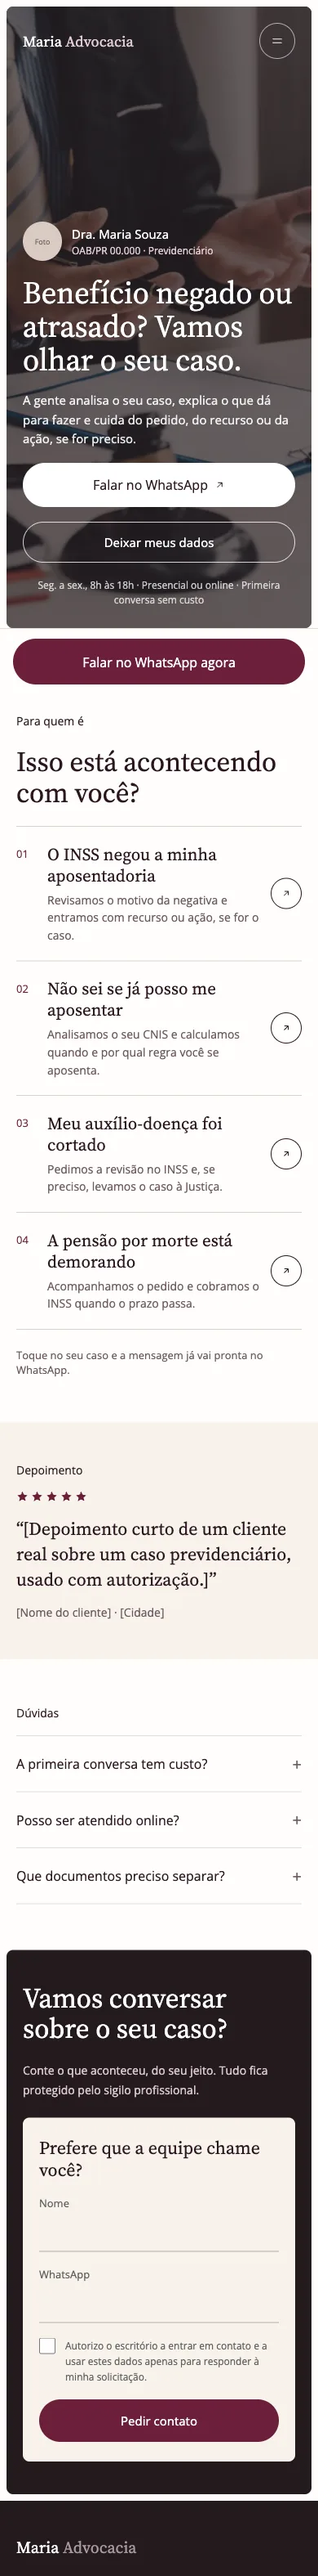
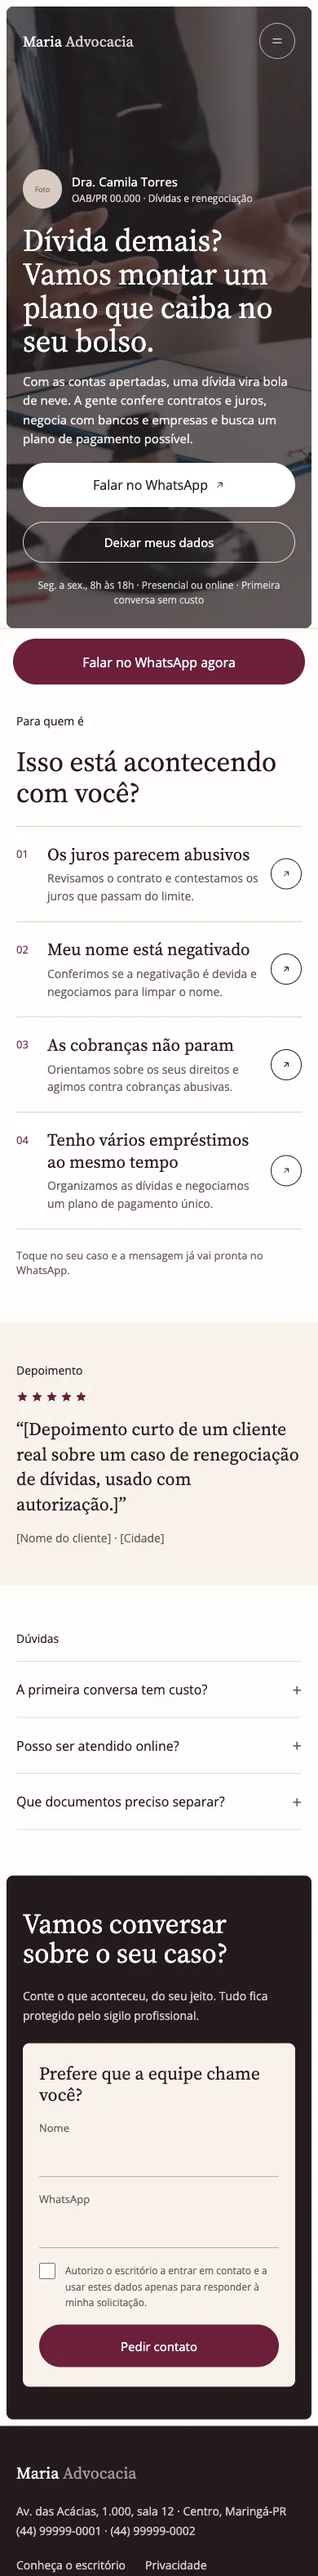
Rodada de conteúdo: novo topo, aviso de dados fictícios, sobre com trajetória, cases em desafio/painel/prática, galeria das 5 landing pages com página inteira ao clicar, LinkedIn no contato; corrige telas de celular trocadas entre as áreas
Claude-Session: https://claude.ai/code/session_01F5wkNeoWnXVfzMkmMXsnwT

diff --git a/index.html b/index.html
@@ -74,66 +74,84 @@ img{-webkit-user-drag:none;user-select:none}
 .project .dashboard-shell{margin-top:auto;overflow:hidden;border-radius:12px}
 .project .dashboard-shell+a{margin-top:0}
 .project .dashboard-shell .dashboard-watermark{font-size:clamp(11px,1.2vw,14px);color:rgba(255,255,255,.7)}
+
+/* Rodada 2: cases em etapas, galeria das landing pages e contato */
+.case-steps{margin:0 0 20px;display:grid;gap:12px}.case-steps div{display:grid;gap:2px}.case-steps dt{font-size:11px;font-weight:800;letter-spacing:.1em;text-transform:uppercase;color:var(--accent)}.case-steps dd{margin:0;font-size:14px;color:var(--muted);line-height:1.55}
+.lp-grid{display:grid;grid-template-columns:repeat(6,minmax(0,1fr));gap:16px}.lp-grid .lp-card{grid-column:span 2}.lp-grid .lp-card:nth-child(4){grid-column:2/span 2}
+.lp-card{background:var(--white);border:1px solid var(--line);border-radius:18px;padding:20px}
+.lp-shots{display:grid;grid-template-columns:minmax(0,1fr) 31%;gap:12px}
+.lp-shot{position:relative;display:block;height:250px;padding:0;border:1px solid var(--line);border-radius:12px;overflow:hidden;background:#f0f2f3;cursor:zoom-in}
+.lp-shot img{display:block;width:100%;height:100%;object-fit:cover;object-position:top;transition:transform .35s ease}.lp-shot:hover img{transform:scale(1.03)}
+.lp-shot:focus-visible{outline:3px solid var(--accent);outline-offset:3px}
+.lp-label{position:absolute;left:10px;bottom:10px;padding:5px 10px;border-radius:999px;background:rgba(255,255,255,.94);color:var(--ink);font-size:11px;font-weight:700}
+.img-modal{width:min(900px,94vw);height:88vh;padding:0;border:0;border-radius:16px;background:#fff;box-shadow:0 30px 80px rgba(0,0,0,.35)}.img-modal::backdrop{background:rgba(23,35,33,.72)}
+.img-modal-body{height:calc(100% - 65px);overflow:auto;background:#f0f2f3;padding:16px}.img-modal-body img{display:block;margin:0 auto;max-width:100%;height:auto;border-radius:8px}
+.contact-actions{display:flex;gap:10px;flex-wrap:wrap}.contact .btn.ghost{background:transparent;color:#fff;border:1px solid rgba(255,255,255,.55)}
+footer a{text-decoration:none}footer a:hover{color:var(--accent)}
+@media(max-width:980px){.lp-grid{grid-template-columns:repeat(2,minmax(0,1fr))}.lp-grid .lp-card,.lp-grid .lp-card:nth-child(4){grid-column:auto}}@media(max-width:600px){.lp-grid{grid-template-columns:1fr}.lp-shot{height:240px}}
 </style>
 </head>
 <body>
 <div class="wrap">
 <nav><div class="brand">IGOR SOUZA<span style="color:var(--accent)">.</span></div>
-<div class="navlinks"><a href="#sobre">Sobre</a><a href="#bi">BI & Dados</a><a href="#digitais">Projetos digitais</a><a href="#competencias">Competências</a><a href="#contato">Contato</a></div></nav>
+<div class="navlinks"><a href="#sobre">Sobre</a><a href="#bi">BI & Dados</a><a href="#digitais">Landing pages</a><a href="#competencias">Competências</a><a href="#contato">Contato</a></div></nav>
 <header class="hero">
-<div><div class="eyebrow">Portfólio profissional · Marketing, dados & digital</div>
-<h1>Transformo dados e ideias em decisões e experiências.</h1>
-<p>Atuação entre Business Intelligence, marketing digital, performance e operações de e-commerce — conectando indicadores, comunicação e objetivos de negócio.</p>
-<div class="actions"><a class="btn" href="#bi">Explorar projetos</a><a class="btn secondary" href="https://wa.me/5544988583209?text=Ol%C3%A1%2C%20Igor%21%20Vi%20seu%20portf%C3%B3lio%20e%20gostaria%20de%20conversar." target="_blank" rel="noopener">Vamos conversar pelo WhatsApp ↗</a></div></div>
-<div class="hero-note">Projetos práticos em diferentes segmentos: varejo de moda, supermercado e serviços jurídicos. Uma visão que combina análise, organização e experiência digital.</div>
+<div><div class="eyebrow">Portfólio · E-commerce, dados e marketing</div>
+<h1>Dados de e‑commerce claros para decidir rápido.</h1>
+<p>Experiência com site próprio, marketplace e iFood. Monto dashboards no Looker Studio e landing pages pensadas para converter.</p>
+<div class="actions"><a class="btn" href="#bi">Ver projetos</a><a class="btn secondary" href="https://wa.me/5544988583209?text=Ol%C3%A1%2C%20Igor%21%20Vi%20seu%20portf%C3%B3lio%20e%20gostaria%20de%20conversar." target="_blank" rel="noopener">Conversar pelo WhatsApp ↗</a></div></div>
+<div class="hero-note">Os projetos usam dados fictícios, montados a partir de situações reais de trabalho em moda, supermercado e serviços.</div>
 </header>
 <section id="sobre">
-<div class="section-top"><div><div class="eyebrow">01 / Sobre</div><h2>Visão analítica com olhar de negócio.</h2></div><p>Experiência em rotinas de e-commerce, acompanhamento de indicadores, campanhas e melhoria de processos.</p></div>
-<div class="about-grid"><article class="about-card"><p>Sou profissional de Administração com experiência em e-commerce e marketing, atuando na gestão de plataformas, análise de desempenho, acompanhamento de KPIs e construção de materiais digitais. Gosto de transformar informações dispersas em visões claras para apoiar decisões.</p></article>
-<article class="about-card"><p>Meu trabalho transita entre o operacional e o estratégico: entender o que os números mostram, organizar processos e apresentar informações de forma objetiva para diferentes áreas.</p><div class="chips"><span class="chip">Business Intelligence</span><span class="chip">E-commerce</span><span class="chip">Marketing digital</span><span class="chip">Performance</span><span class="chip">Análise de dados</span></div></article></div>
+<div class="section-top"><div><div class="eyebrow">01 / Sobre</div><h2>Do operacional ao estratégico.</h2></div><p>Formado em Administração, com pós-graduação em Marketing Digital e Green Belt em Lean Six Sigma.</p></div>
+<div class="about-grid"><article class="about-card"><p>Trabalho com e-commerce desde a implantação de um marketplace numa concessionária de máquinas agrícolas. Depois cuidei do site de uma marca de moda, com catálogo, campanhas, trocas e relatórios para a diretoria, e da operação online de uma rede de supermercados com mais de 50 lojas no iFood.</p></article>
+<article class="about-card"><p>O que mais gosto de fazer: entender o que os números mostram, encontrar a causa do problema e levar isso de forma simples para quem decide. Foi assim que o motivo de devolução virou dado e mostrou por que as peças voltavam.</p><div class="chips"><span class="chip">E-commerce</span><span class="chip">Marketplace e iFood</span><span class="chip">Looker Studio</span><span class="chip">Indicadores</span><span class="chip">Melhoria contínua</span></div></article></div>
 </section>
 <section id="bi">
-<div class="section-top"><div><div class="eyebrow">02 / Business Intelligence</div><h2>Dados que ajudam a enxergar o todo.</h2></div><p>Dashboards desenvolvidos no Looker Studio para acompanhar indicadores, identificar oportunidades e apoiar a gestão.</p></div>
+<div class="section-top"><div><div class="eyebrow">02 / Business Intelligence</div><h2>Painéis que mostram onde agir.</h2></div><p>Dashboards no Looker Studio com dados fictícios, construídos a partir de problemas reais de operação.</p></div>
 <div class="project-grid">
-<article class="project"><div class="number">CASE 01</div><h3>Moda · Performance e vendas</h3><p>Painel para acompanhar tráfego pago, CRM, vendas e evolução dos resultados, conectando ações de marketing ao desempenho comercial.</p><div class="dashboard-shell"><button type="button" class="dash-poster" data-embed="https://datastudio.google.com/embed/reporting/e86edecd-8c5a-4be6-ad9c-904071d9623d/page/ELTCG" data-title="Moda · Performance e vendas" aria-label="Explorar o painel Moda · Performance e vendas"><img src="img/dash-moda.webp" width="763" height="500" loading="lazy" alt="Prévia do painel Moda · Performance e vendas no Looker Studio"><span class="dash-cta">Clique para explorar</span></button><span class="dashboard-watermark" aria-hidden="true">IGOR SOUZA · PORTFÓLIO</span></div><a href="https://datastudio.google.com/s/v72280vTZ-A" target="_blank" rel="noopener">Abrir dashboard ↗</a><div class="tagline">Looker Studio · Marketing & vendas</div></article>
-<article class="project"><div class="number">CASE 02</div><h3>Supermercado · Operação de marketplace</h3><p>Visão de vendas, pedidos, entregas e ocorrências operacionais, incluindo problemas de entrega e itens em falta.</p><div class="dashboard-shell"><button type="button" class="dash-poster" data-embed="https://datastudio.google.com/embed/reporting/a673e09f-b2b7-47b7-8d30-3926c16bb16c/page/TlJ0C" data-title="Supermercado · Operação de marketplace" aria-label="Explorar o painel Supermercado · Operação de marketplace"><img src="img/dash-supermercado.webp" width="763" height="500" loading="lazy" alt="Prévia do painel Supermercado · Operação de marketplace no Looker Studio"><span class="dash-cta">Clique para explorar</span></button><span class="dashboard-watermark" aria-hidden="true">IGOR SOUZA · PORTFÓLIO</span></div><a href="https://datastudio.google.com/s/u9i9ufwwCQA" target="_blank" rel="noopener">Abrir dashboard ↗</a><div class="tagline">Looker Studio · Operações</div></article>
-<article class="project"><div class="number">CASE 03</div><h3>Advocacia · Mídia e conversão</h3><p>Painel para acompanhar mídia paga, conversões e resultados por área de atuação, permitindo observar a contribuição de cada frente.</p><div class="dashboard-shell"><button type="button" class="dash-poster" data-embed="https://datastudio.google.com/embed/reporting/0234be36-ab75-43ec-ac84-e9a9bc528aa4/page/E4WCG" data-title="Advocacia · Mídia e conversão" aria-label="Explorar o painel Advocacia · Mídia e conversão"><img src="img/dash-advocacia.webp" width="763" height="500" loading="lazy" alt="Prévia do painel Advocacia · Mídia e conversão no Looker Studio"><span class="dash-cta">Clique para explorar</span></button><span class="dashboard-watermark" aria-hidden="true">IGOR SOUZA · PORTFÓLIO</span></div><a href="https://datastudio.google.com/s/uVpRtHjeyeo" target="_blank" rel="noopener">Abrir dashboard ↗</a><div class="tagline">Looker Studio · Aquisição & conversão</div></article>
+<article class="project"><div class="number">CASE 01</div><h3>Moda · Vendas e devoluções</h3>
+<dl class="case-steps"><div><dt>Desafio</dt><dd>Muita devolução sem motivo registrado, e um faturamento da plataforma que não batia com o do ERP.</dd></div><div><dt>O que o painel mostra</dt><dd>Venda líquida pelo ERP, valor devolvido por motivo e a evolução mês a mês.</dd></div><div><dt>Na prática</dt><dd>Com o motivo obrigatório, apareceram causas concretas, como um tecido que amarelava nas peças brancas e uma modelagem menor que o padrão.</dd></div></dl>
+<div class="dashboard-shell"><button type="button" class="dash-poster" data-embed="https://datastudio.google.com/embed/reporting/e86edecd-8c5a-4be6-ad9c-904071d9623d/page/ELTCG" data-title="Moda · Vendas e devoluções" aria-label="Explorar o painel Moda · Vendas e devoluções"><img src="img/dash-moda.webp" width="763" height="500" loading="lazy" alt="Prévia do painel Moda · Vendas e devoluções no Looker Studio"><span class="dash-cta">Clique para explorar</span></button><span class="dashboard-watermark" aria-hidden="true">IGOR SOUZA · PORTFÓLIO</span></div><a href="https://datastudio.google.com/s/v72280vTZ-A" target="_blank" rel="noopener">Abrir dashboard ↗</a><div class="tagline">Looker Studio · Vendas e pós-venda</div></article>
+<article class="project"><div class="number">CASE 02</div><h3>Supermercado · Operação no iFood</h3>
+<dl class="case-steps"><div><dt>Desafio</dt><dd>Dez lojas com resultados diferentes e pouca clareza sobre o que derrubava o pedido completo.</dd></div><div><dt>O que o painel mostra</dt><dd>Pedido 100%, cancelamento por loja e por mês, causas por área (loja, entregador, cliente, plataforma) e resposta às avaliações.</dd></div><div><dt>Na prática</dt><dd>Fica fácil ver qual loja puxa o cancelamento para cima e o efeito de eventos como uma greve de entregadores.</dd></div></dl>
+<div class="dashboard-shell"><button type="button" class="dash-poster" data-embed="https://datastudio.google.com/embed/reporting/a673e09f-b2b7-47b7-8d30-3926c16bb16c/page/TlJ0C" data-title="Supermercado · Operação no iFood" aria-label="Explorar o painel Supermercado · Operação no iFood"><img src="img/dash-supermercado.webp" width="763" height="500" loading="lazy" alt="Prévia do painel Supermercado · Operação no iFood no Looker Studio"><span class="dash-cta">Clique para explorar</span></button><span class="dashboard-watermark" aria-hidden="true">IGOR SOUZA · PORTFÓLIO</span></div><a href="https://datastudio.google.com/s/u9i9ufwwCQA" target="_blank" rel="noopener">Abrir dashboard ↗</a><div class="tagline">Looker Studio · Operação de marketplace</div></article>
+<article class="project"><div class="number">CASE 03</div><h3>Advocacia · Do clique ao cliente</h3>
+<dl class="case-steps"><div><dt>Desafio</dt><dd>Saber quanto custa cada cliente fechado e qual área dá mais retorno sobre a verba de mídia.</dd></div><div><dt>O que o painel mostra</dt><dd>O funil clique, contato no WhatsApp, atendimento e fechamento, com investimento e retorno por área.</dd></div><div><dt>Na prática</dt><dd>Mostra onde a verba rende mais e em que etapa do funil os contatos se perdem.</dd></div></dl>
+<div class="dashboard-shell"><button type="button" class="dash-poster" data-embed="https://datastudio.google.com/embed/reporting/0234be36-ab75-43ec-ac84-e9a9bc528aa4/page/E4WCG" data-title="Advocacia · Do clique ao cliente" aria-label="Explorar o painel Advocacia · Do clique ao cliente"><img src="img/dash-advocacia.webp" width="763" height="500" loading="lazy" alt="Prévia do painel Advocacia · Do clique ao cliente no Looker Studio"><span class="dash-cta">Clique para explorar</span></button><span class="dashboard-watermark" aria-hidden="true">IGOR SOUZA · PORTFÓLIO</span></div><a href="https://datastudio.google.com/s/uVpRtHjeyeo" target="_blank" rel="noopener">Abrir dashboard ↗</a><div class="tagline">Looker Studio · Aquisição e conversão</div></article>
 </div>
 <p class="tagline" style="margin-top:18px">Clique em um painel para explorá-lo aqui mesmo, ou use “Abrir dashboard” para vê-lo em uma nova aba.</p>
 </section>
 <section id="digitais">
-<div class="section-top"><div><div class="eyebrow">03 / Experiências digitais</div><h2>Landing pages pensadas para cada público.</h2></div><p>Um projeto para escritório de advocacia com cinco páginas segmentadas por área de atuação, apresentadas em versões desktop e mobile.</p></div>
-<p class="landing-intro">As páginas seguem uma estrutura orientada à conversão: proposta de valor, identificação das necessidades do público, chamadas para contato via WhatsApp, depoimentos, dúvidas frequentes e formulário de contato. O conjunto demonstra organização de conteúdo e adaptação responsiva entre telas.</p>
-<div class="landing-list">
-<article class="landing-card featured-landing-card">
-  <div class="landing-heading"><span>01</span><h3>Criminal e Previdenciário</h3></div>
-  <div class="landing-gallery"><figure class="mobile-shot"><img loading="lazy" src="img/lp-criminal-mobile.webp" width="390" height="3150" alt="Landing page Criminal — versão mobile"><figcaption>Criminal · Mobile @1x</figcaption></figure><figure class="mobile-shot"><img loading="lazy" src="img/lp-previdenciario-mobile.webp" width="390" height="3150" alt="Landing page Previdenciário — versão mobile"><figcaption>Previdenciário · Mobile @1x</figcaption></figure><figure class="desktop-shot"><img loading="lazy" src="img/lp-criminal-desktop.webp" width="750" height="1536" alt="Landing page Criminal — versão desktop"><figcaption>Criminal · Desktop @1x</figcaption></figure><figure class="desktop-shot"><img loading="lazy" src="img/lp-previdenciario-desktop.webp" width="750" height="1536" alt="Landing page Previdenciário — versão desktop"><figcaption>Previdenciário · Desktop @1x</figcaption></figure></div>
-</article>
-<article class="landing-card">
-        <div class="landing-heading"><span>02</span><h3>Família</h3></div>
-        <div class="screens">
-          <figure class="mobile-shot"><img loading="lazy" src="img/lp-familia-mobile.webp" width="390" height="3150" alt="Landing page Família — versão mobile"><figcaption>Mobile @1x</figcaption></figure>
-          <figure class="desktop-shot"><img loading="lazy" src="img/lp-familia-desktop.webp" width="750" height="1536" alt="Landing page Família — versão desktop"><figcaption>Desktop @1x</figcaption></figure>
-        </div>
-      </article>
-      
-
-<article class="landing-card">
-        <div class="landing-heading"><span>03</span><h3>Tributário</h3></div>
-        <div class="screens">
-          <figure class="mobile-shot"><img loading="lazy" src="img/lp-tributario-mobile.webp" width="390" height="3150" alt="Landing page Tributário — versão mobile"><figcaption>Mobile @1x</figcaption></figure>
-          <figure class="desktop-shot"><img loading="lazy" src="img/lp-tributario-desktop.webp" width="750" height="1536" alt="Landing page Tributário — versão desktop"><figcaption>Desktop @1x</figcaption></figure>
-        </div>
-      </article>
-      
-
-<article class="landing-card">
-        <div class="landing-heading"><span>04</span><h3>Renegociação de dívidas</h3></div>
-        <div class="screens">
-          <figure class="mobile-shot"><img loading="lazy" src="img/lp-dividas-mobile.webp" width="390" height="3150" alt="Landing page Renegociação de dívidas — versão mobile"><figcaption>Mobile @1x</figcaption></figure>
-          <figure class="desktop-shot"><img loading="lazy" src="img/lp-dividas-desktop.webp" width="750" height="1536" alt="Landing page Renegociação de dívidas — versão desktop"><figcaption>Desktop @1x</figcaption></figure>
-        </div>
-      </article></div>
+<div class="section-top"><div><div class="eyebrow">03 / Landing pages</div><h2>Uma página para cada público.</h2></div><p>Cinco páginas para um escritório de advocacia fictício, uma por área de atuação, no computador e no celular.</p></div>
+<p class="landing-intro">Cada página responde, em poucos blocos, o que a pessoa quer saber antes de chamar: é comigo? Quem vai me atender? Como eu falo? Cada problema da lista já abre o WhatsApp com a mensagem pronta. Clique em uma tela para ver a página inteira.</p>
+<div class="lp-grid">
+<article class="lp-card"><div class="landing-heading"><span>01</span><h3>Previdenciário</h3></div>
+<div class="lp-shots">
+<button type="button" class="lp-shot lp-shot-desktop" data-full="img/lp-previdenciario-desktop.webp" data-title="Previdenciário · computador" aria-label="Ver a página de Previdenciário inteira no computador"><img src="img/lp-previdenciario-desktop.webp" width="750" height="1536" loading="lazy" alt="Topo da landing page de Previdenciário no computador"><span class="lp-label">Computador</span></button>
+<button type="button" class="lp-shot lp-shot-mobile" data-full="img/lp-previdenciario-mobile.webp" data-title="Previdenciário · celular" aria-label="Ver a página de Previdenciário inteira no celular"><img src="img/lp-previdenciario-mobile.webp" width="390" height="3150" loading="lazy" alt="Topo da landing page de Previdenciário no celular"><span class="lp-label">Celular</span></button>
+</div></article>
+<article class="lp-card"><div class="landing-heading"><span>02</span><h3>Família</h3></div>
+<div class="lp-shots">
+<button type="button" class="lp-shot lp-shot-desktop" data-full="img/lp-familia-desktop.webp" data-title="Família · computador" aria-label="Ver a página de Família inteira no computador"><img src="img/lp-familia-desktop.webp" width="750" height="1536" loading="lazy" alt="Topo da landing page de Família no computador"><span class="lp-label">Computador</span></button>
+<button type="button" class="lp-shot lp-shot-mobile" data-full="img/lp-familia-mobile.webp" data-title="Família · celular" aria-label="Ver a página de Família inteira no celular"><img src="img/lp-familia-mobile.webp" width="390" height="3150" loading="lazy" alt="Topo da landing page de Família no celular"><span class="lp-label">Celular</span></button>
+</div></article>
+<article class="lp-card"><div class="landing-heading"><span>03</span><h3>Criminal</h3></div>
+<div class="lp-shots">
+<button type="button" class="lp-shot lp-shot-desktop" data-full="img/lp-criminal-desktop.webp" data-title="Criminal · computador" aria-label="Ver a página de Criminal inteira no computador"><img src="img/lp-criminal-desktop.webp" width="750" height="1536" loading="lazy" alt="Topo da landing page de Criminal no computador"><span class="lp-label">Computador</span></button>
+<button type="button" class="lp-shot lp-shot-mobile" data-full="img/lp-criminal-mobile.webp" data-title="Criminal · celular" aria-label="Ver a página de Criminal inteira no celular"><img src="img/lp-criminal-mobile.webp" width="390" height="3150" loading="lazy" alt="Topo da landing page de Criminal no celular"><span class="lp-label">Celular</span></button>
+</div></article>
+<article class="lp-card"><div class="landing-heading"><span>04</span><h3>Tributário</h3></div>
+<div class="lp-shots">
+<button type="button" class="lp-shot lp-shot-desktop" data-full="img/lp-tributario-desktop.webp" data-title="Tributário · computador" aria-label="Ver a página de Tributário inteira no computador"><img src="img/lp-tributario-desktop.webp" width="750" height="1536" loading="lazy" alt="Topo da landing page de Tributário no computador"><span class="lp-label">Computador</span></button>
+<button type="button" class="lp-shot lp-shot-mobile" data-full="img/lp-tributario-mobile.webp" data-title="Tributário · celular" aria-label="Ver a página de Tributário inteira no celular"><img src="img/lp-tributario-mobile.webp" width="390" height="3150" loading="lazy" alt="Topo da landing page de Tributário no celular"><span class="lp-label">Celular</span></button>
+</div></article>
+<article class="lp-card"><div class="landing-heading"><span>05</span><h3>Dívidas e renegociação</h3></div>
+<div class="lp-shots">
+<button type="button" class="lp-shot lp-shot-desktop" data-full="img/lp-dividas-desktop.webp" data-title="Dívidas e renegociação · computador" aria-label="Ver a página de Dívidas e renegociação inteira no computador"><img src="img/lp-dividas-desktop.webp" width="750" height="1536" loading="lazy" alt="Topo da landing page de Dívidas e renegociação no computador"><span class="lp-label">Computador</span></button>
+<button type="button" class="lp-shot lp-shot-mobile" data-full="img/lp-dividas-mobile.webp" data-title="Dívidas e renegociação · celular" aria-label="Ver a página de Dívidas e renegociação inteira no celular"><img src="img/lp-dividas-mobile.webp" width="390" height="3150" loading="lazy" alt="Topo da landing page de Dívidas e renegociação no celular"><span class="lp-label">Celular</span></button>
+</div></article>
+</div>
 </section>
 <section id="competencias">
 <div class="section-top"><div><div class="eyebrow">04 / Competências</div><h2>Ferramentas e frentes de atuação.</h2></div></div>
@@ -147,9 +165,9 @@ img{-webkit-user-drag:none;user-select:none}
 </div>
 </section>
 <section id="contato">
-<div class="contact"><div><div class="eyebrow" style="color:#a8c7bd">Vamos conversar</div><h2>Tem um projeto ou oportunidade?</h2><p>Tem um projeto em mente ou busca um profissional para sua equipe? Vamos conversar pelo WhatsApp.</p></div><a class="btn" href="https://wa.me/5544988583209?text=Ol%C3%A1%2C%20Igor%21%20Vi%20seu%20portf%C3%B3lio%20e%20gostaria%20de%20conversar." target="_blank" rel="noopener">Chamar no WhatsApp ↗</a></div>
+<div class="contact"><div><div class="eyebrow" style="color:#a8c7bd">Vamos conversar</div><h2>Tem um projeto, um freela ou uma vaga?</h2><p>Me chame pelo WhatsApp ou pelo LinkedIn. Respondo assim que puder.</p></div><div class="contact-actions"><a class="btn" href="https://wa.me/5544988583209?text=Ol%C3%A1%2C%20Igor%21%20Vi%20seu%20portf%C3%B3lio%20e%20gostaria%20de%20conversar." target="_blank" rel="noopener">WhatsApp ↗</a><a class="btn ghost" href="https://www.linkedin.com/in/igor-souza-a96a00195" target="_blank" rel="noopener">LinkedIn ↗</a></div></div>
 </section>
-<footer><span>© 2026 Igor Souza · Portfólio profissional</span><span>Business Intelligence · Marketing · Digital</span></footer>
+<footer><span>© 2026 Igor Souza · Portfólio profissional · Maringá-PR</span><span><a href="https://www.linkedin.com/in/igor-souza-a96a00195" target="_blank" rel="noopener">LinkedIn</a> · E-commerce · Dados · Marketing</span></footer>
 </div>
 
 <script>
@@ -188,6 +206,21 @@ document.addEventListener('keydown', function (event) {
   document.getElementById('dashModalClose').addEventListener('click',fechar);
   modal.addEventListener('click',function(e){if(e.target===modal)fechar();});
   modal.addEventListener('close',function(){frame.src='about:blank';});
+})();
+</script>
+
+<dialog class="img-modal" id="imgModal" aria-label="Página completa">
+<div class="dash-modal-bar"><span id="imgModalTitle">Página</span><button type="button" class="dash-modal-close" id="imgModalClose" aria-label="Fechar">×</button></div>
+<div class="img-modal-body"><img id="imgModalImg" alt=""></div>
+</dialog>
+<script>
+(function(){
+  var m=document.getElementById('imgModal'), img=document.getElementById('imgModalImg'), t=document.getElementById('imgModalTitle');
+  document.querySelectorAll('.lp-shot').forEach(function(b){
+    b.addEventListener('click',function(){ t.textContent=b.dataset.title; img.src=b.dataset.full; img.alt='Landing page '+b.dataset.title+', página inteira'; img.style.width=b.classList.contains('lp-shot-mobile')?'390px':'100%'; if(m.showModal){m.showModal(); m.querySelector('.img-modal-body').scrollTop=0;} else {window.open(b.dataset.full,'_blank');} });
+  });
+  document.getElementById('imgModalClose').addEventListener('click',function(){m.close();});
+  m.addEventListener('click',function(e){if(e.target===m)m.close();});
 })();
 </script>
 
